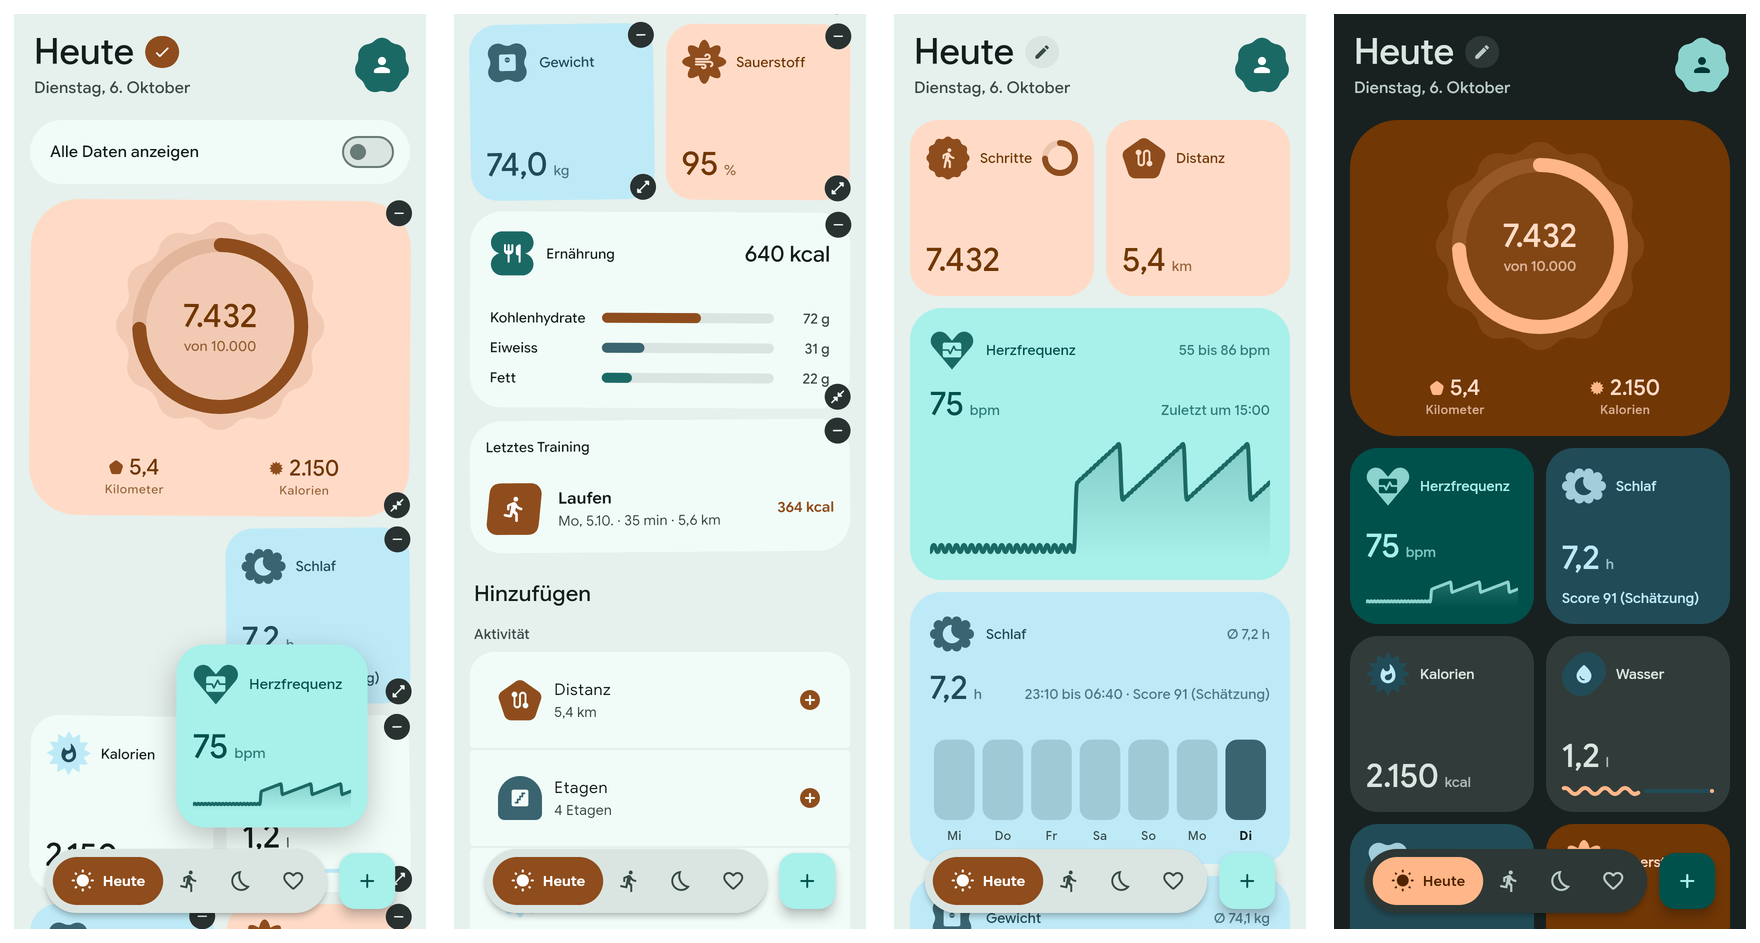
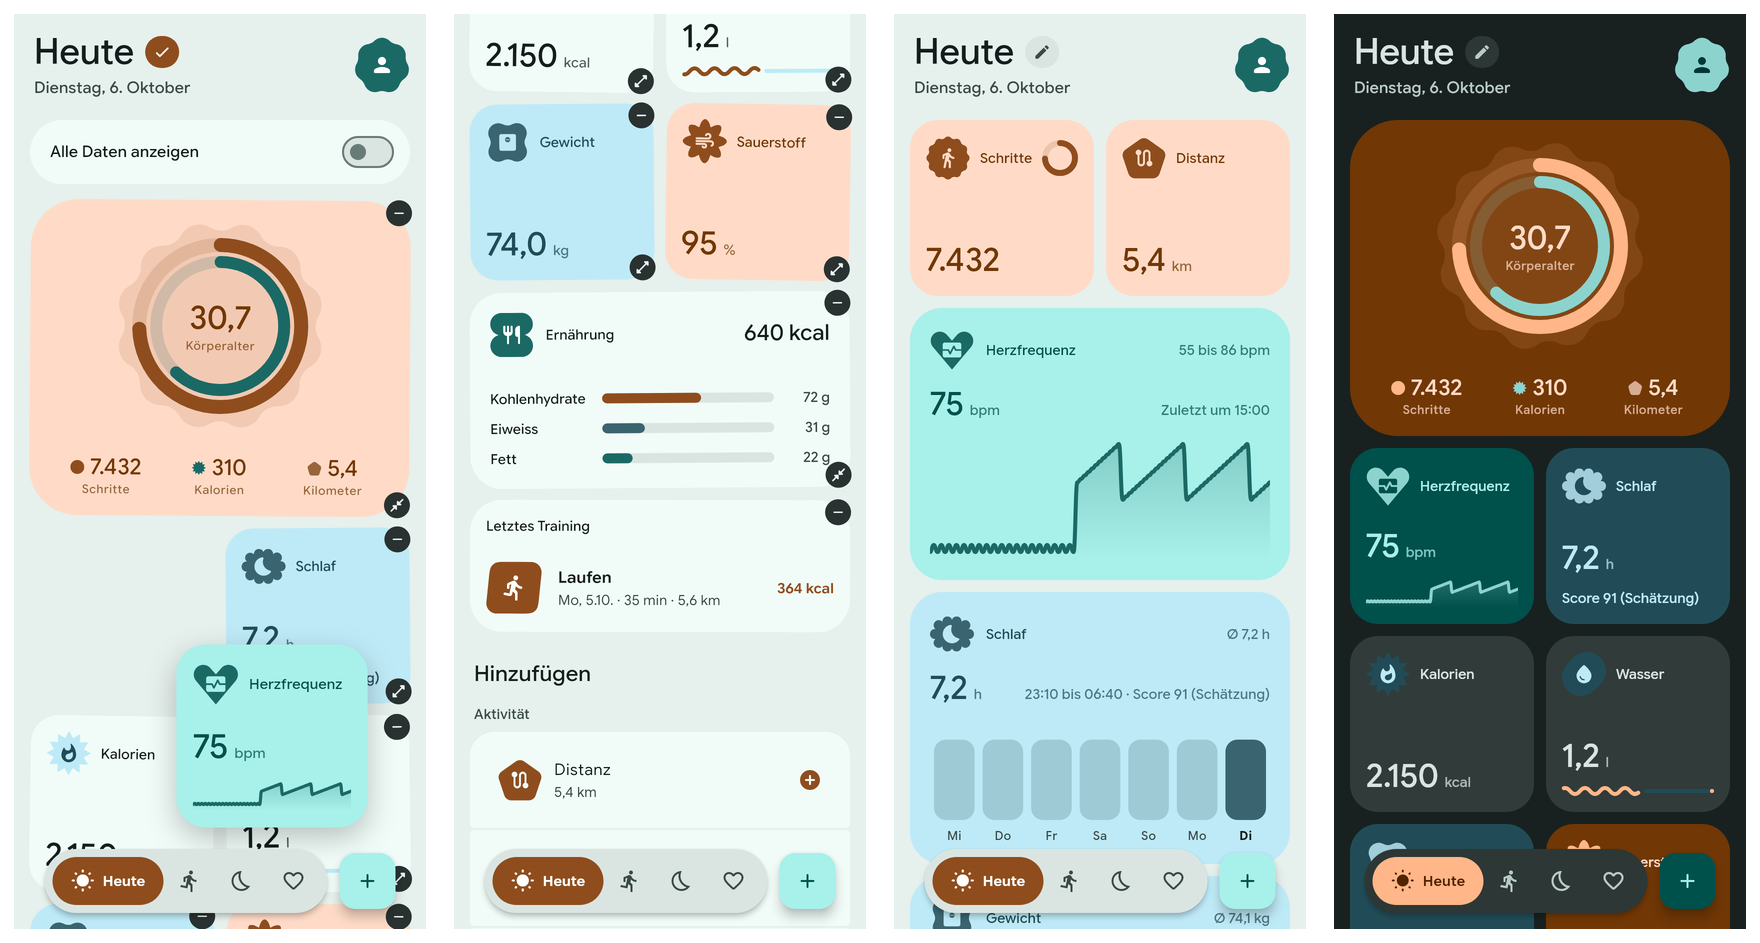
docs: render the edit mode and Liquid Glass images with the current steps tile

diff --git a/README.md b/README.md
@@ -131,7 +131,7 @@ sequenceDiagram
 
 ![Liquid Glass: the Heute page, the add menu open, the pill being dragged along the bar, and the dark theme](readmestuff/glass.png)
 
-The Liquid Glass images show the blurred fallback, because the test renderer has no Impeller. On a phone the bar, the dragged pill and the add button also bend what is behind them. The edit mode and Liquid Glass images were rendered before the steps tile got its second ring and the body age, and still show the earlier tile.
+The Liquid Glass images show the blurred fallback, because the test renderer has no Impeller. On a phone the bar, the dragged pill and the add button also bend what is behind them.
 
 ---
 
